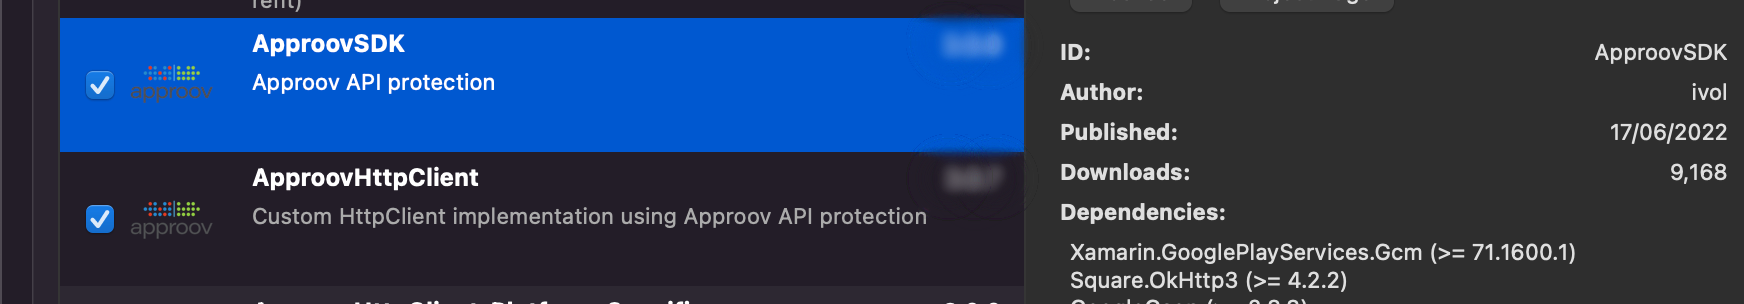
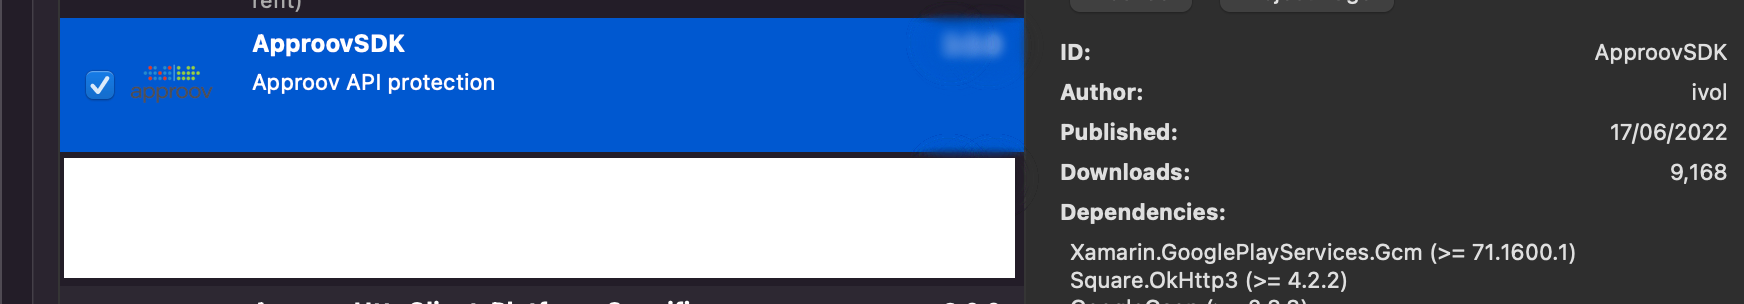
Update SDK usage to 3.1.0

Changed region(s): [[0.031, 0.5033, 0.5883, 0.9178]]

diff --git a/SHAPES-EXAMPLE.md b/SHAPES-EXAMPLE.md
@@ -5,10 +5,10 @@ This quickstart is written specifically for native iOS apps that are written in 
 ## WHAT YOU WILL NEED
 * Access to a trial or paid Approov account
 * The `approov` command line tool [installed](https://approov.io/docs/latest/approov-installation/) with access to your account
-* [Visual Studio](https://visualstudio.microsoft.com/vs/mac/) with Xamarin extensions (Mac version 17.0.6 is used in this guide)
+* [Visual Studio](https://visualstudio.microsoft.com/vs/mac/) with Xamarin extensions (Mac version 8.10.25 is used in this guide)
 * The contents of the folder containing this README
 * An Apple mobile device with iOS 10 or higher or an Android 5.0+ device. Alternatively, iOS simulator or Android emulator would suffice
-* Nuget packages supporting the native Approov SDK: `ApproovSDK` version `3.0.0` and `ApproovHttpClient` version `3.0.7`.
+* Nuget packages supporting the native Approov SDK: `ApproovSDK` version `3.1.0`.
 
 ## RUNNING THE SHAPES APP WITHOUT APPROOV
 
@@ -36,15 +36,9 @@ This checks the connectivity by connecting to the endpoint `https://shapes.appro
 
 This contacts `https://shapes.approov.io/v1/shapes` to get the name of a random shape. It gets the http status code 200  because this endpoint is protected with a secret key which we hard coded in the source code. Next, you will add Approov into the app so that it can generate valid Approov tokens and get shapes using an approov token.
 
-## ADD THE APPROOV SDK ENABLED HTTP CLIENT
-
-The ApproovSDK makes use of a custom `HttpClient` implementation, `ApproovHttpClient` and it is available as a NuGet package in the default repository `nuget.org`. Since the `ApproovHttpClient` uses platform specific code you will need to add the NuGet packages to the `ShapesApp.Android` and `ShapesApp.iOS` projects instead of the generic `ShapesApp` project. Select `Project` and `Manage NuGet Packages...` then select `Browse` and search for the `ApproovHttpClient` package.
-
-![Add ApproovSDK Package](readme-images/add-nuget-packages.png)
-
 ## ADD THE APPROOV SDK
 
-The Approov SDK is also available as a NuGet package in the default `nuget.org` repository and is conveniently named `ApproovSDK`.
+The Approov SDK is available as a NuGet package in the default `nuget.org` repository and is conveniently named `ApproovSDK`. Since the `ApproovSDK` uses platform specific code you will need to add the NuGet packages to the `ShapesApp.Android` and `ShapesApp.iOS` projects instead of the generic `ShapesApp` project. Select `Project` and `Manage NuGet Packages...` then select `Browse` and search for the `ApproovSDK` package.
 
 Your project structure should now look like this:
 
@@ -125,6 +119,7 @@ approov registration -add ShapesApp.ipa
 ```
 
 At the time of writing this README there is a bug in the latest version of `Xamarin.Forms` (Version="4.7.0.1080") where [building fails de to problems with AndroidManifest file](https://github.com/xamarin/Xamarin.Forms/issues/11233). Please follow the solution in the bug report to build the `ShapesApp` apk file or use the provided `Xamarin.Forms` package version (Version="4.5.0.356").
+Please, also note if you are using an Android device, you might not connect to the `shapes.approov.io` endpoint unless you [Disable the expired DST Root CA X3](https://community.letsencrypt.org/t/solution-to-xamarin-forms-android-certificate-verify-failed/161256) in the Android Certificate settings.
 
 ## RUNNING THE SHAPES APP WITH APPROOV
 

diff --git a/README.md b/README.md
@@ -7,17 +7,17 @@ This quickstart provides the basic steps for integrating Approov into your app. 
 To follow this guide you should have received an onboarding email for a trial or paid Approov account.
 
 Note that the minimum OS requirement for iOS is 10 and for Android the minimum SDK version is 21 (Android 5.0). You cannot use Approov in apps that need to support OS versions older than this.
-We will use the latest versions of the `nuget.org` packages, `ApproovSDK-3.0.0` and `ApproovHttpClient-3.0.7`.  
-> **WARNING Obsolete dependency**: The package `ApproovHttpClient-Platform-Specific` has been obsoleted and should not be used any longer.
+We will use the latest versions of the `nuget.org` package, `ApproovSDK-3.1.0`.  
+> **WARNING Obsolete dependency**: The packages `ApproovHttpClient` and `ApproovHttpClient-Platform-Specific` has been obsoleted and should not be used any longer.
 
 
-## ADDING THE APPROOV SERVICE AND THE APPROOV SDK
+## ADDING THE APPROOV SDK
 
-The Approov SDK makes use of a custom `HttpClient` implementation, `ApproovHttpClient` and it is available as a NuGet package in the default repository `nuget.org`. The `ApproovHttpClient` includes platform specific code in the `ApproovService` class. The `ShapesApp.Android` and `ShapesApp.iOS` projects require the `ApproovHttpClient` package in order to use the Approov enabled service, alongside the `ApproovSDK` package which contains the native bindings. Select `Project` and `Manage NuGet Packages...` then select `Browse` and search for the `ApproovHttpClient` and `ApproovSDK` packages.
+The Approov SDK makes use of a custom `HttpClient` implementation, `ApproovHttpClient` and it makes use of platform specific code in the `ApproovService` class. The `ShapesApp.Android` and `ShapesApp.iOS` projects require the `ApproovSDK` package in order to use the Approov enabled service. Select `Project` and `Manage NuGet Packages...` then select `Browse` and search for the `ApproovSDK` package.
 
 ![Add ApproovSDK Package](readme-images/add-nuget-packages.png)
 
-Select and install the latest available versions.
+Select and install the latest available version.
 
 
 ## USING THE APPROOV SERVICE
